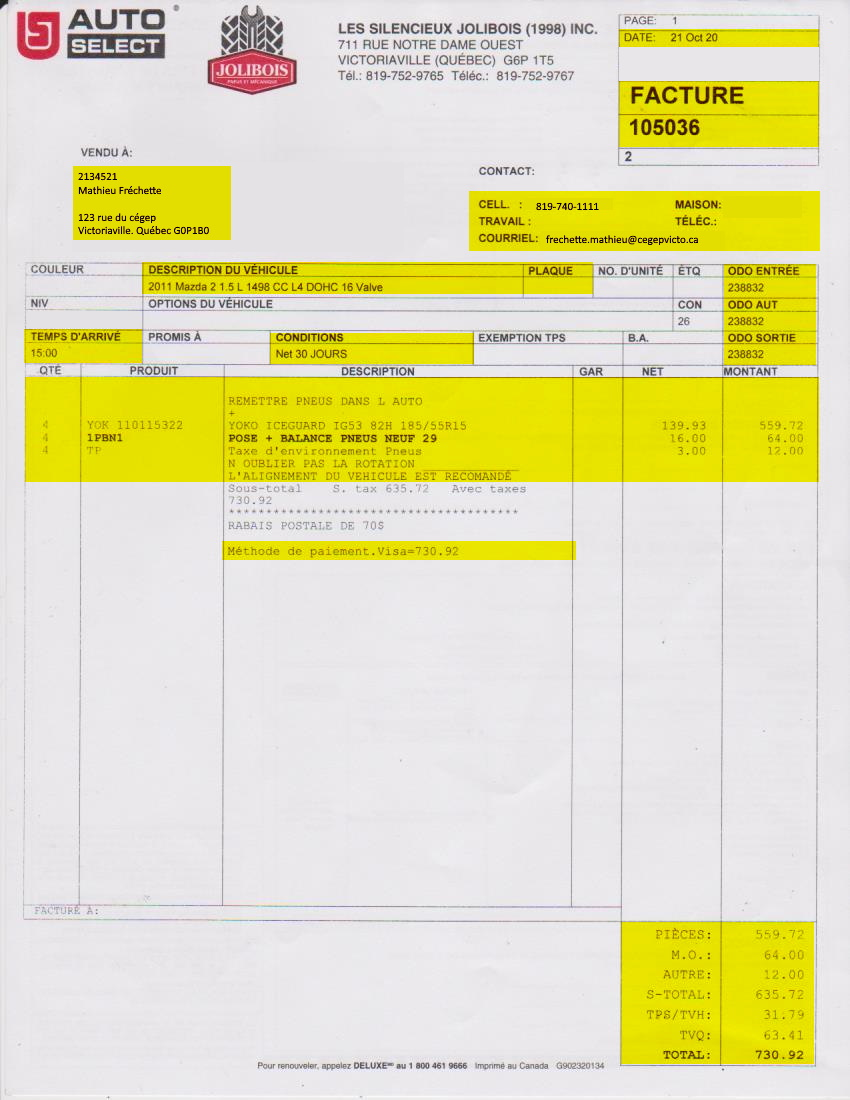
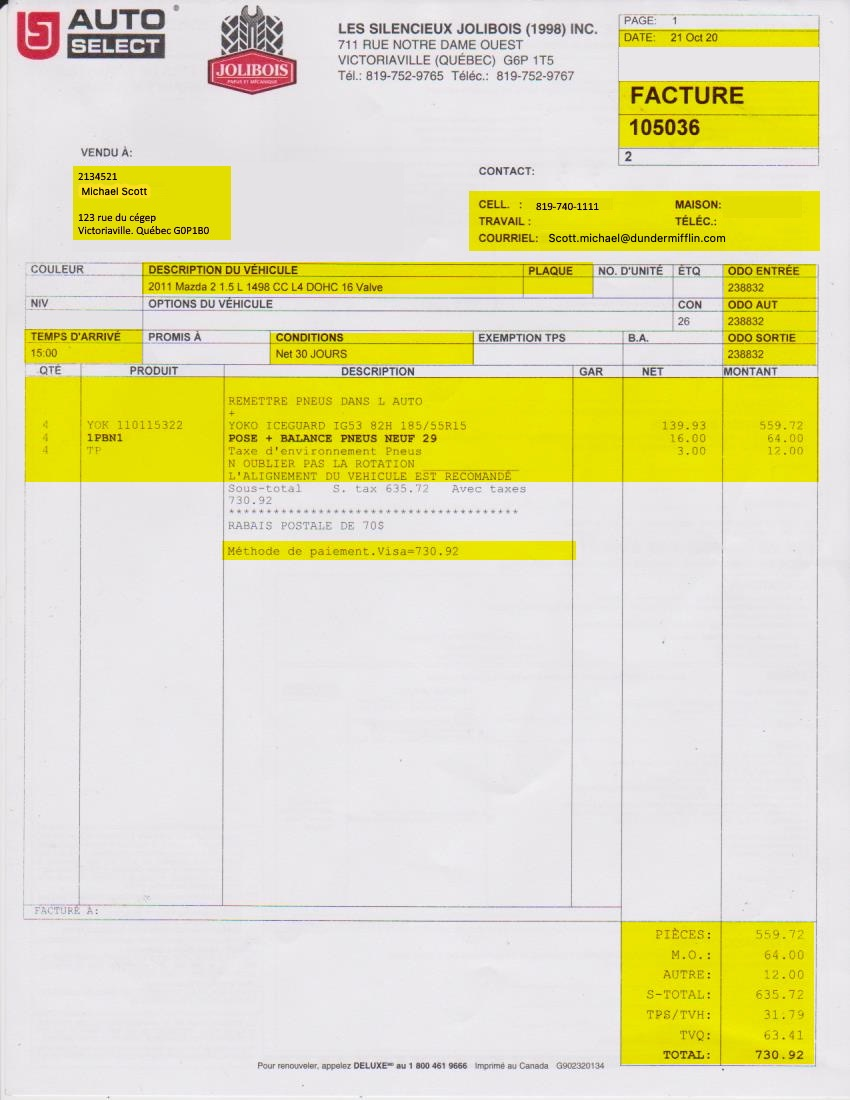
dépersonalisation

diff --git a/docs/mysql/types_jointures.md b/docs/mysql/types_jointures.md
@@ -41,10 +41,10 @@ CREATE TABLE joueurs (
 );
 
 INSERT INTO joueurs (guilde_id, nom, prenom) 
-VALUES (1, 'Fréchette', 'Mathieu'), 
-	(1, 'Ouellet', 'Alexandre'), 
-	(2, 'Tousignant', 'Simon'),
-	(null, 'Rivard', 'Etienne');
+VALUES (1, 'Simms', 'Jonah'), 
+	(1, 'McNeill', 'Garrett'), 
+	(2, 'Sosa', 'Amy'),
+	(null, 'Fox', 'Dina');
 ```
 
 # Contenu des deux tables  
@@ -61,10 +61,10 @@ VALUES (1, 'Fréchette', 'Mathieu'),
 
 | id  | guilde_id | nom        | prenom   |
 |-----|-----------|------------|----------|
-| 1   | 1         | Fréchette  | Mathieu  |
-| 2   | 1         | Ouellet    | Alexandre|
-| 3   | 2         | Tousignant | Simon    |
-| 4   | NULL      | Rivard     | Etienne  |
+| 1   | 1         | Simms  | Jonah  |
+| 2   | 1         | McNeill    | Garrett|
+| 3   | 2         | Sosa | Amy    |
+| 4   | NULL      | Fox     | Dina  |
 
 # INNER JOIN
 
@@ -82,9 +82,9 @@ FROM joueurs j
 
 | nom        | prenom     | guilde     |
 |------------|------------|------------|
-| Fréchette  | Mathieu    | SqlIsGod   |
-| Ouellet    | Alexandre  | SqlIsGod   |
-| Tousignant | Simon      | Error404   |
+| Simms  | Jonah    | SqlIsGod   |
+| McNeill    | Garrett  | SqlIsGod   |
+| Sosa | Amy      | Error404   |
 
 # LEFT JOIN
 
@@ -102,10 +102,10 @@ FROM joueurs j
 
 | nom        | prenom     | guilde     |
 |------------|------------|------------|
-| Fréchette  | Mathieu    | SqlIsGod   |
-| Ouellet    | Alexandre  | SqlIsGod   |
-| Tousignant | Simon      | Error404   |
-| Rivard      | Etienne   | NULL       |
+| Simms  | Jonah    | SqlIsGod   |
+| McNeill    | Garrett  | SqlIsGod   |
+| Sosa | Amy      | Error404   |
+| Fox      | Dina   | NULL       |
 
 # RIGHT JOIN
 
@@ -123,9 +123,9 @@ FROM joueurs j
 
 | nom        | prenom     | guilde     |
 |------------|------------|------------|
-| Fréchette  | Mathieu    | SqlIsGod   |
-| Ouellet    | Alexandre  | SqlIsGod   |
-| Tousignant | Simon      | Error404   |
+| Simms  | Jonah    | SqlIsGod   |
+| McNeill    | Garrett  | SqlIsGod   |
+| Sosa | Amy      | Error404   |
 | NULL       | NULL       | IsNobodyHere |
 
 	
@@ -177,8 +177,8 @@ FROM joueurs j
 
 | nom        | prenom     | guilde     |
 |------------|------------|------------|
-| Fréchette  | Mathieu    | SqlIsGod   |
-| Ouellet    | Alexandre  | SqlIsGod   |
-| Tousignant | Simon      | Error404   |
-| Rivard      | Etienne   | NULL       |
+| Simms  | Jonah    | SqlIsGod   |
+| McNeill    | Garrett  | SqlIsGod   |
+| Sosa | Amy      | Error404   |
+| Fox      | Dina   | NULL       |
 | NULL       | NULL       | IsNobodyHere |

diff --git a/docs/evaluations/analyse_revision_a.md b/docs/evaluations/analyse_revision_a.md
@@ -9,7 +9,7 @@
 ## Précisions
 
 - Seulement les informations surlignées en jaunes doivent être sauvegardés (ou peuvent être reproduit exactement avec les autres informations sauvegardées).
-- Le nombre 2134521 situé au-dessus du nom "Mathieu Fréchette" est le code de ce client.
+- Le nombre 2134521 situé au-dessus du nom "Michael Scott" est le code de ce client.
 - La description du véhicule est un champs texte associé au compte du client. Le client peut avoir plus d'un véhicule associé à son compte.
 - La case PLAQUE est le numéro de la plaque d'immatriculation du véhicule
 - Les trois champs ODO ... représente trois prise de l'odomètre du véhicule durant le travail facturé.
